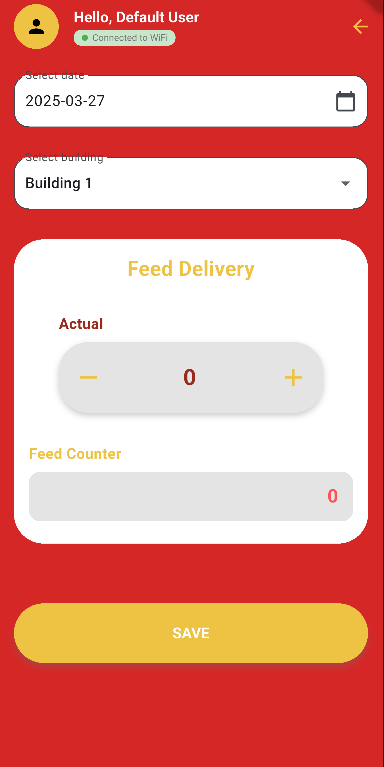
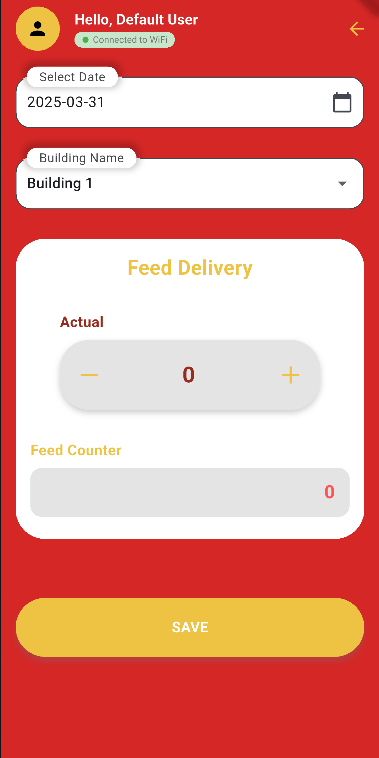
update

diff --git a/FarmWatch_Remark/remark.html b/FarmWatch_Remark/remark.html
@@ -138,9 +138,9 @@ class: p-3img
 The User Input Screens are made to easily input data from the building into the app and into the server. The users, mainly the field users, can use the app, without mobile data, and log their readings for the ALW, Mortality, and Feed Consumption into the app. The app logs the data inputted to the screen as well as the timestamp of logging, and send the data to the server once a connection is secured.
 
 
-![image](https://github.com/Jeffrey-nrqz/remarks/blob/1cbabbaa75afd7ce99d7c302325d88a156be8c88/FarmWatch_Remark/assets/07-1.png?raw=true)
-![image](https://github.com/Jeffrey-nrqz/remarks/blob/1cbabbaa75afd7ce99d7c302325d88a156be8c88/FarmWatch_Remark/assets/07-2.png?raw=true)
-![image](https://github.com/Jeffrey-nrqz/remarks/blob/1cbabbaa75afd7ce99d7c302325d88a156be8c88/FarmWatch_Remark/assets/07-3.png?raw=true)
+![image](https://github.com/Jeffrey-nrqz/remarks/blob/5b6ddefc0824012fb2fcdacba1e7c88fa4f8cc3b/FarmWatch_Remark/assets/07-1.png?raw=true)
+![image](https://github.com/Jeffrey-nrqz/remarks/blob/5b6ddefc0824012fb2fcdacba1e7c88fa4f8cc3b/FarmWatch_Remark/assets/07-2.png?raw=true)
+![image](https://github.com/Jeffrey-nrqz/remarks/blob/5b6ddefc0824012fb2fcdacba1e7c88fa4f8cc3b/FarmWatch_Remark/assets/07-3.png?raw=true)
 ---
 class: par-img
 
